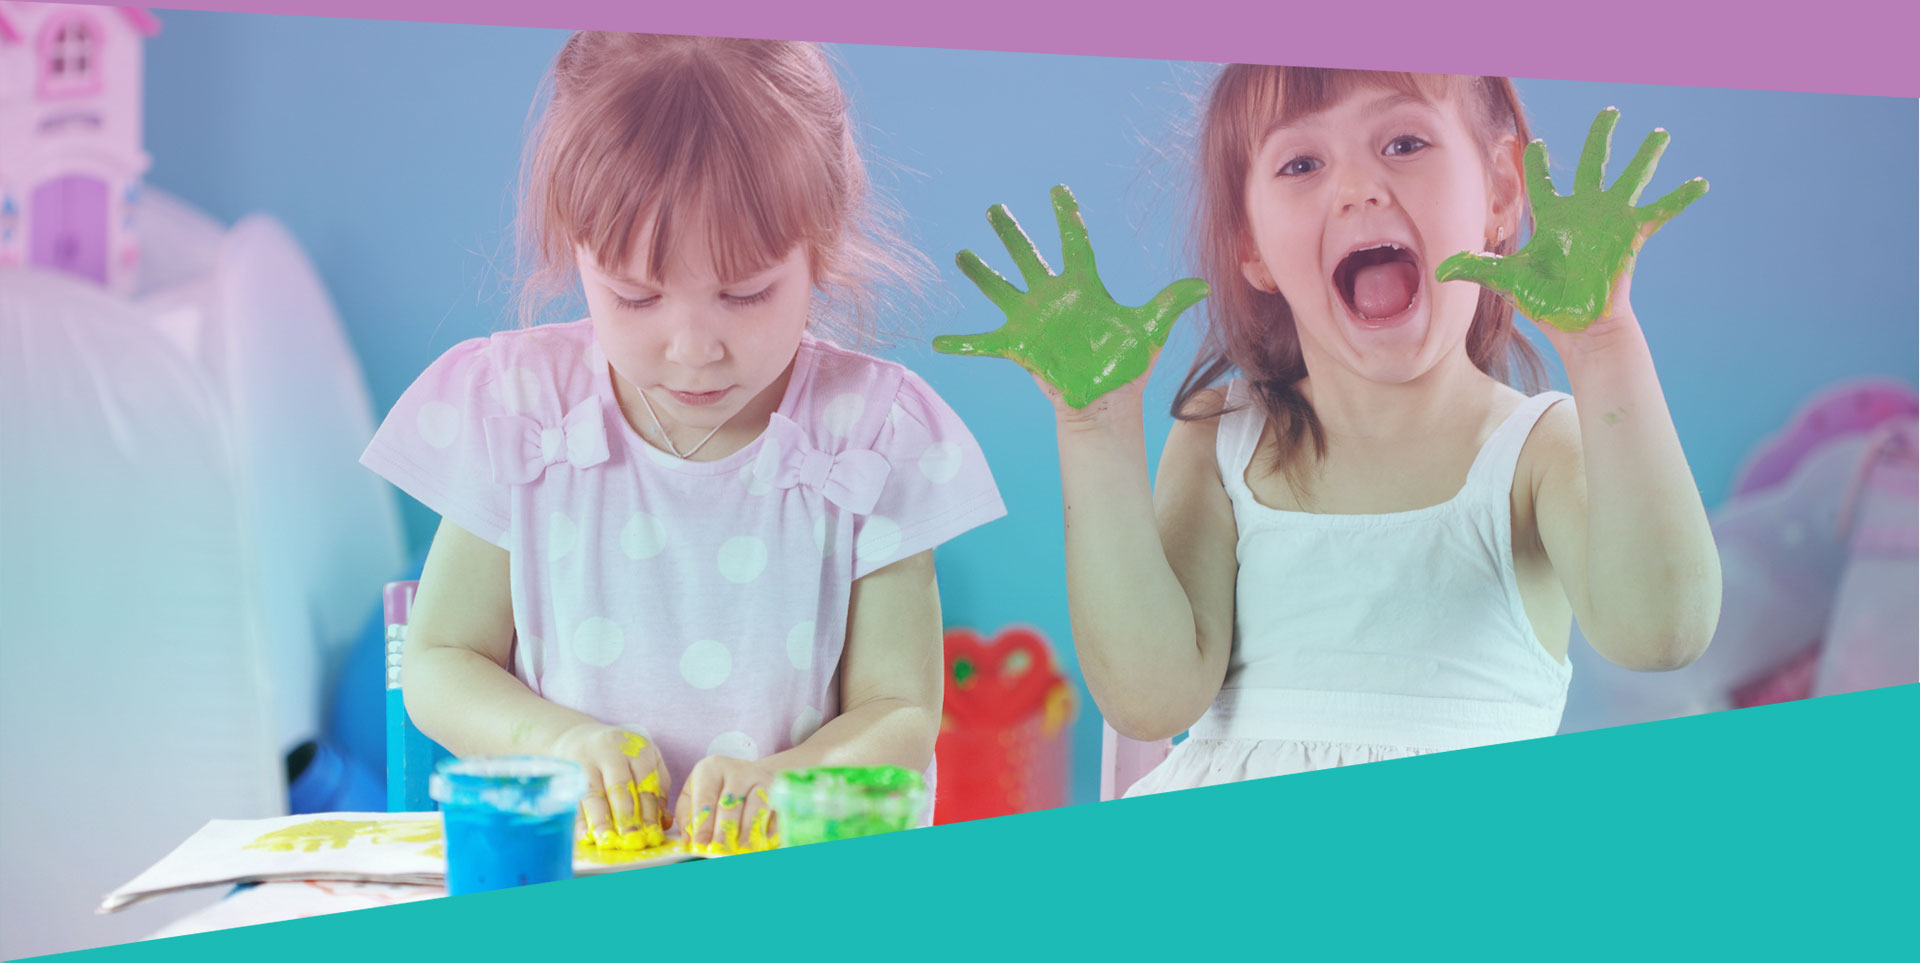
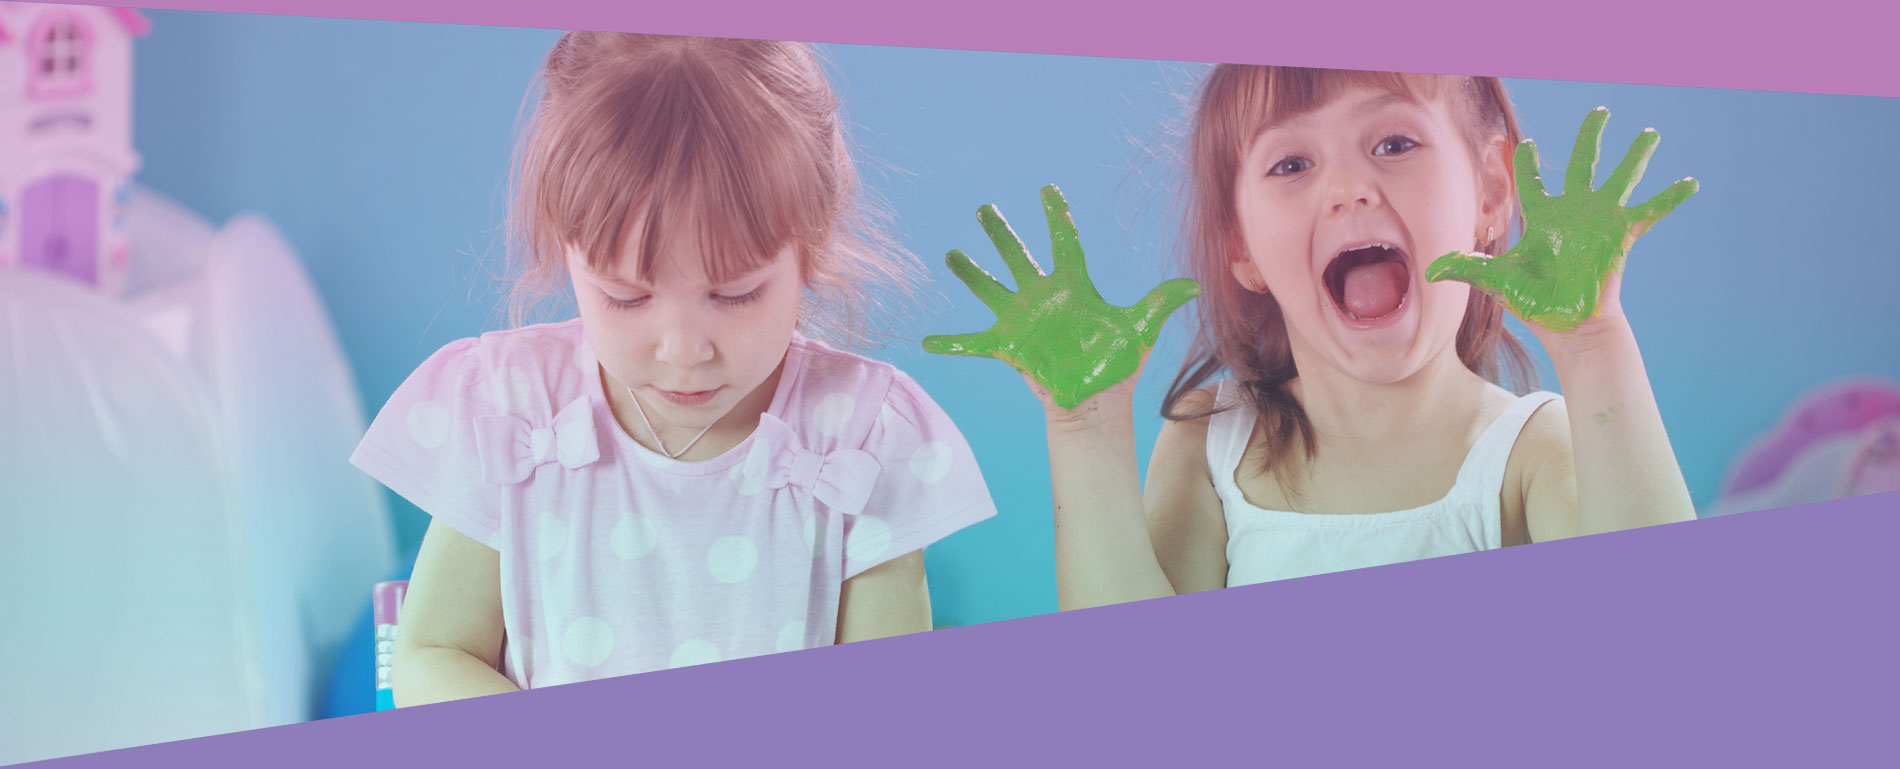
фиксы верстки, новая логика для заказа на месяц вперед при положительном балансе

diff --git a/app/event.component.js b/app/event.component.js
@@ -103,33 +103,24 @@ var EventComponent = (function () {
             }
             if ((price - userBalance) <= 0) {
                 if (this.subscriptionPrice) {
-                    this.gs.initTransaction('SM', this.subscriptionPrice);
-                    localStorage.setItem('timeslot_id', JSON.stringify(this.timeslot_id));
-                    localStorage.setItem('seats', JSON.stringify(this.seats));
-                    //tbd
+                    this.httpService.initTransaction('SM', this.subscriptionPrice).subscribe(function (data) {
+                        if (data.status == 'OK') {
+                            _this.httpService.checkTransaction(data.transaction.id).subscribe(function (data) {
+                                if (data.status = "OK") {
+                                    if (data.transaction.status == 'C') {
+                                        _this.book();
+                                    }
+                                    else {
+                                        _this.gs.msg = "Что-то пошло не так. Попробуйте обновить страницу";
+                                        _this.gs.openPopup('msgCancel');
+                                    }
+                                }
+                            });
+                        }
+                    });
                 }
                 else {
-                    this.httpService.makingBooking(this.timeslot_id, this.seats).subscribe(function (data) {
-                        if (data.status == "OK") {
-                            _this.gs.msg = "Бронь №" + data.booking_id + " успешно оформлена. Проверьте Вашу электронную почту, Вам должно прийти уведомление";
-                            // this.gs.msg = "Отлично! Все получилось! Проверьте Вашу электронную почту, Вам должно прийти уведомление";
-                            _this.gs.getUserInfo();
-                            _this.loadEvent();
-                            _this.bookingId = data.booking_id;
-                            _this.bookingStatus = true;
-                            _this.gs.openPopup('msg');
-                        }
-                        else {
-                            if (data.reason == "TIME_SLOT_REGISTRATION_IS_OVER") {
-                                _this.gs.msg = "Завершено бронирование мест на выбранное мероприятие";
-                            }
-                            else {
-                                _this.gs.msg = "Что-то пошло не так. Попробуйте обновить страницу";
-                            }
-                            _this.gs.openPopup('msgCancel');
-                        }
-                        _this.isDisable = false;
-                    });
+                    this.book();
                 }
             }
             else {
@@ -141,6 +132,29 @@ var EventComponent = (function () {
                     this.gs.initTransaction('B', (price - userBalance));
             }
         }
+    };
+    EventComponent.prototype.book = function () {
+        var _this = this;
+        this.httpService.makingBooking(this.timeslot_id, this.seats).subscribe(function (data) {
+            if (data.status == "OK") {
+                _this.gs.msg = "Бронь №" + data.booking_id + " успешно оформлена. Проверьте Вашу электронную почту, Вам должно прийти уведомление";
+                _this.gs.getUserInfo();
+                _this.loadEvent();
+                _this.bookingId = data.booking_id;
+                _this.bookingStatus = true;
+                _this.gs.openPopup('msg');
+            }
+            else {
+                if (data.reason == "TIME_SLOT_REGISTRATION_IS_OVER") {
+                    _this.gs.msg = "Завершено бронирование мест на выбранное мероприятие";
+                }
+                else {
+                    _this.gs.msg = "Что-то пошло не так. Попробуйте обновить страницу";
+                }
+                _this.gs.openPopup('msgCancel');
+            }
+            _this.isDisable = false;
+        });
     };
     EventComponent.prototype.cancelBooking = function (timeSlotID) {
         var _this = this;

diff --git a/app/event.component.ts b/app/event.component.ts
@@ -110,30 +110,22 @@ export class EventComponent implements OnInit, OnDestroy  {
 			}
 			if ((price - userBalance) <= 0) {
 				if(this.subscriptionPrice) {
-					this.gs.initTransaction('SM', this.subscriptionPrice);
-					localStorage.setItem('timeslot_id', JSON.stringify(this.timeslot_id));
-					localStorage.setItem('seats', JSON.stringify(this.seats));
-					//tbd
-				} else {
-					this.httpService.makingBooking(this.timeslot_id,this.seats).subscribe((data:any) => {
-						if (data.status == "OK") {
-							this.gs.msg = "Бронь №" + data.booking_id + " успешно оформлена. Проверьте Вашу электронную почту, Вам должно прийти уведомление";
-							// this.gs.msg = "Отлично! Все получилось! Проверьте Вашу электронную почту, Вам должно прийти уведомление";
-							this.gs.getUserInfo();
-							this.loadEvent();
-							this.bookingId = data.booking_id;
-							this.bookingStatus = true;
-							this.gs.openPopup('msg');
-						} else {
-							if (data.reason == "TIME_SLOT_REGISTRATION_IS_OVER") {
-								this.gs.msg = "Завершено бронирование мест на выбранное мероприятие";
-							} else {
-								this.gs.msg = "Что-то пошло не так. Попробуйте обновить страницу";
-							}
-							this.gs.openPopup('msgCancel');
+					this.httpService.initTransaction('SM', this.subscriptionPrice).subscribe((data:any) => {
+						if(data.status == 'OK') {
+							this.httpService.checkTransaction(data.transaction.id).subscribe((data:any) => {
+								if(data.status = "OK") {
+									if (data.transaction.status == 'C') {
+										this.book();
+									} else {
+										this.gs.msg = "Что-то пошло не так. Попробуйте обновить страницу";
+										this.gs.openPopup('msgCancel');
+									}
+								}
+							})
 						}
-						this.isDisable = false;
 					});
+				} else {
+					this.book();
 				}
 			} else {
 				localStorage.setItem('timeslot_id', JSON.stringify(this.timeslot_id));
@@ -144,6 +136,27 @@ export class EventComponent implements OnInit, OnDestroy  {
 					this.gs.initTransaction('B', (price - userBalance));
 			}
 		}
+	}
+
+	book() {
+		this.httpService.makingBooking(this.timeslot_id,this.seats).subscribe((data:any) => {
+			if (data.status == "OK") {
+				this.gs.msg = "Бронь №" + data.booking_id + " успешно оформлена. Проверьте Вашу электронную почту, Вам должно прийти уведомление";
+				this.gs.getUserInfo();
+				this.loadEvent();
+				this.bookingId = data.booking_id;
+				this.bookingStatus = true;
+				this.gs.openPopup('msg');
+			} else {
+				if (data.reason == "TIME_SLOT_REGISTRATION_IS_OVER") {
+					this.gs.msg = "Завершено бронирование мест на выбранное мероприятие";
+				} else {
+					this.gs.msg = "Что-то пошло не так. Попробуйте обновить страницу";
+				}
+				this.gs.openPopup('msgCancel');
+			}
+			this.isDisable = false;
+		});
 	}
 
 	cancelBooking(timeSlotID:number) : void {

diff --git a/app/css/styles.css b/app/css/styles.css
@@ -473,7 +473,7 @@ textarea.textarea {
       font-size: 16px;
       text-transform: none;
       padding: 5px 10px;
-      top: 15px; }
+      top: 18px; }
   .user-menu-title {
     border-bottom: 2px solid #fff;
     position: relative;
@@ -484,7 +484,7 @@ textarea.textarea {
       width: 20px;
       height: 20px;
       position: absolute;
-      top: 20px;
+      top: 22px;
       left: 0; }
   .user-menu-item table {
     margin: 20px 0;
@@ -648,14 +648,8 @@ textarea.textarea {
         text-decoration: none; }
 
 .advantages {
-  padding-bottom: 200px;
+  padding-bottom: 35px;
   background-color: #ba7db8; }
-  @media only screen and (max-width: 780px) {
-    .advantages {
-      padding-bottom: 120px; } }
-  @media only screen and (max-width: 420px) {
-    .advantages {
-      padding-bottom: 30px; } }
   .advantages-item {
     display: inline-block;
     vertical-align: top;
@@ -718,8 +712,8 @@ textarea.textarea {
 .steps {
   position: relative;
   background-color: #1cbbb4;
-  padding-bottom: 13%;
-  min-height: 675px; }
+  min-height: 675px;
+  padding: 8% 0; }
   .steps:before {
     background-image: url("../img/stepsBG.jpg");
     background-repeat: no-repeat;
@@ -727,24 +721,21 @@ textarea.textarea {
     background-position: 50% 100%;
     content: '';
     position: absolute;
-    top: -12%;
+    top: 0;
     left: 0;
     width: 100%;
     height: 110%; }
     @media only screen and (max-width: 420px) {
       .steps:before {
         background-image: url("../img/mobile/stepsBG.jpg");
-        background-size: 100% 100%;
-        height: 100%;
-        top: -5%; } }
+        background-size: 100% 100%; } }
   @media only screen and (max-width: 780px) {
     .steps {
       padding-bottom: 5%;
-      min-height: 600px; } }
+      min-height: auto; } }
   @media only screen and (max-width: 420px) {
     .steps {
-      padding-bottom: 0;
-      overflow: hidden; }
+      padding-bottom: 0; }
       .steps-wrap {
         background: none;
         text-align: center; } }
@@ -779,8 +770,8 @@ textarea.textarea {
       text-align: center; }
       @media only screen and (max-width: 780px) {
         .steps-wrap p {
-          font-size: 18px;
-          line-height: 25px; } }
+          font-size: 16px;
+          line-height: 1.2; } }
 
 .options {
   text-align: center;

diff --git a/static/main.html b/static/main.html
@@ -127,15 +127,15 @@
 		<h2>Цена абонемента</h2>
 		<div>
 			<div class="options-item">
-				<div class="options-price"><span>300</span> <img src="app/img/money.png" alt=""></div>
+				<div class="options-price"><span>200</span> <img src="app/img/money.png" alt=""></div>
 				<p class="options-description">При оплате каждый месяц</p>
 			</div>
 			<div class="options-item">
-				<div class="options-price"><span>2900</span> <img src="app/img/money.png" alt=""></div>
+				<div class="options-price"><span>1900</span> <img src="app/img/money.png" alt=""></div>
 				<p class="options-description">При оплате на год вперед</p>
 			</div>
 		</div>
 		<div class="options-text">Первые два месяца вы пользуетесь абонементом совершенно бесплатно и в полном объеме. Ну разве что при бронировании посещений каждый раз нужно будет вводить данные банковской карты.</div>
-		<button *ngIf="!gs.isAuthenticated" (click)="gs.openPopup('login')" class="btn btn-line">Попробовать 2 мес<br>бесплатно</button>
+		<button (click)="gs.openPopup('login')" class="btn btn-line">Попробовать 2 мес<br>бесплатно</button>
 	</div>
 </div>

diff --git a/static/header.html b/static/header.html
@@ -9,11 +9,8 @@
 	 --><div *ngIf="gs.isAuthenticated" (click)="toogleLK()" class="user">
 			<p class="user-name" [class.user-name_icon]="gs.userInfo.name.length <= 1" ><img src="app/img/profile.png" alt=""><span>{{gs.userInfo.name}}</span></p>
 		</div><!-- 
-	 --><!-- <div class="email">
-			<a href="mailto:hello@kinderpass.ru"><img src="app/img/mail.png" alt=""><span>hello@kinderpass.ru</span></a>
-		</div> --><!-- 
-	 --><div class="links" [class.links-b]="!gs.isAuthenticated">
-			<a routerLink="/about">О проекте</a><span *ngIf="!gs.isAuthenticated" (click)="gs.openPopup('login')">Войти</span><a routerLink="/contacts">Контакты</a>
+	 --><div class="links" *ngIf="!gs.isAuthenticated">
+			<a routerLink="/about">О проекте</a><span (click)="gs.openPopup('login')">Войти</span><a routerLink="/contacts">Контакты</a>
 		</div>
 		<div *ngIf="openProfile" class="user-menu">
 			<div class="user-menu-item">
@@ -56,7 +53,7 @@
 			</div>
 			<div *ngIf="gs.userInfo.bookings.length" class="user-menu-item">
 				<div class="user-menu-title">
-					<img src="app/img/ticket.png" alt="">
+					<img src="app/img/ticketLK.png" alt="">
 					<p>Брони</p>
 				</div>
 				<div class="user-menu-booking">

diff --git a/_html/sass/3-modules/_steps.sass b/_html/sass/3-modules/_steps.sass
@@ -1,8 +1,8 @@
 .steps
 	position: relative
 	background-color: #1cbbb4
-	padding-bottom: 13%
 	min-height: 675px
+	padding: 8% 0
 	&:before
 		background-image: url("../img/stepsBG.jpg")
 		background-repeat: no-repeat
@@ -10,22 +10,21 @@
 		background-position: 50% 100%
 		content: ''
 		position: absolute
-		top: -12%
+		top: 0
 		left: 0
 		width: 100%
 		height: 110%
 		+bp($sm)
 			background-image: url("../img/mobile/stepsBG.jpg")
 			background-size: 100% 100%
-			height: 100%
-			top: -5%
+			// height: 100%
+			// top: 0%
 	+bp($md)
 		padding-bottom: 5%
-		min-height: 600px
+		min-height: auto
 	+bp($sm)
 		
 		padding-bottom: 0
-		overflow: hidden
 		&-wrap
 			background: none
 			text-align: center
@@ -61,5 +60,5 @@
 			margin-bottom: 3%
 			text-align: center
 			+bp($md)
-				font-size: 18px
-				line-height: 25px
+				font-size: 16px
+				line-height: 1.2

diff --git a/static/loginPopup.html b/static/loginPopup.html
@@ -25,6 +25,7 @@
 <div [@dialog] *ngIf="gs.popupName == 'msg' || gs.popupName == 'msgCancel'" class="popup-wrapper msg-wrapper" [class.msg-wrapper-cancel]="gs.popupName == 'msgCancel'">
 	<div class="popup-close modal-close msg-close"(click)="close()" ></div>
 	<p class="popup-description">{{gs.msg}}</p>
+	<div (click)="close()" class="btn">Окей</div>
 </div>
 
 <div [@dialog] *ngIf="gs.popupName == 'extendSubscription'" class="popup login">

diff --git a/_html/sass/3-modules/_header.sass b/_html/sass/3-modules/_header.sass
@@ -218,7 +218,7 @@
 				font-size: 16px
 				text-transform: none
 				padding: 5px 10px
-				top: 15px
+				top: 18px
 		&-title
 			border-bottom: 2px solid #fff
 			position: relative
@@ -229,7 +229,7 @@
 				width: 20px
 				height: 20px
 				position: absolute
-				top: 20px
+				top: 22px
 				left: 0
 		&-item
 			table

diff --git a/_html/sass/3-modules/_advantages.sass b/_html/sass/3-modules/_advantages.sass
@@ -1,10 +1,10 @@
 .advantages
-	padding-bottom: 200px
+	padding-bottom: 35px
 	background-color: #ba7db8
-	+bp($md)
-		padding-bottom: 120px
-	+bp($sm)
-		padding-bottom: 30px
+	// +bp($md)
+	// 	padding-bottom: 120px
+	// +bp($sm)
+	// 	padding-bottom: 30px
 	&-item
 		display: inline-block
 		vertical-align: top
